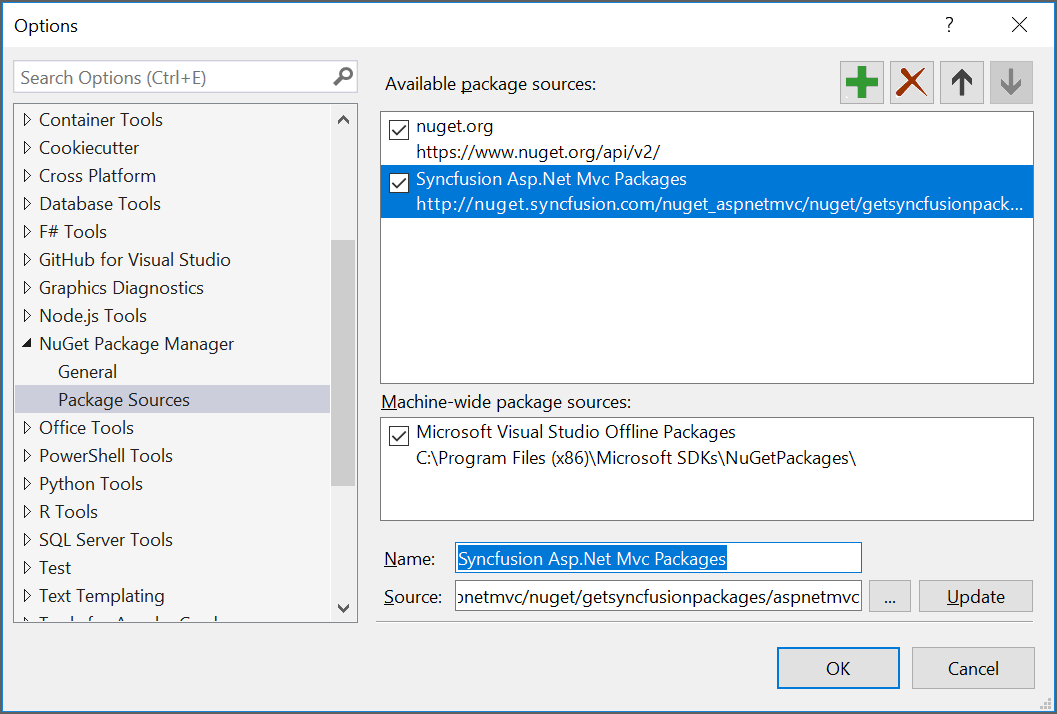
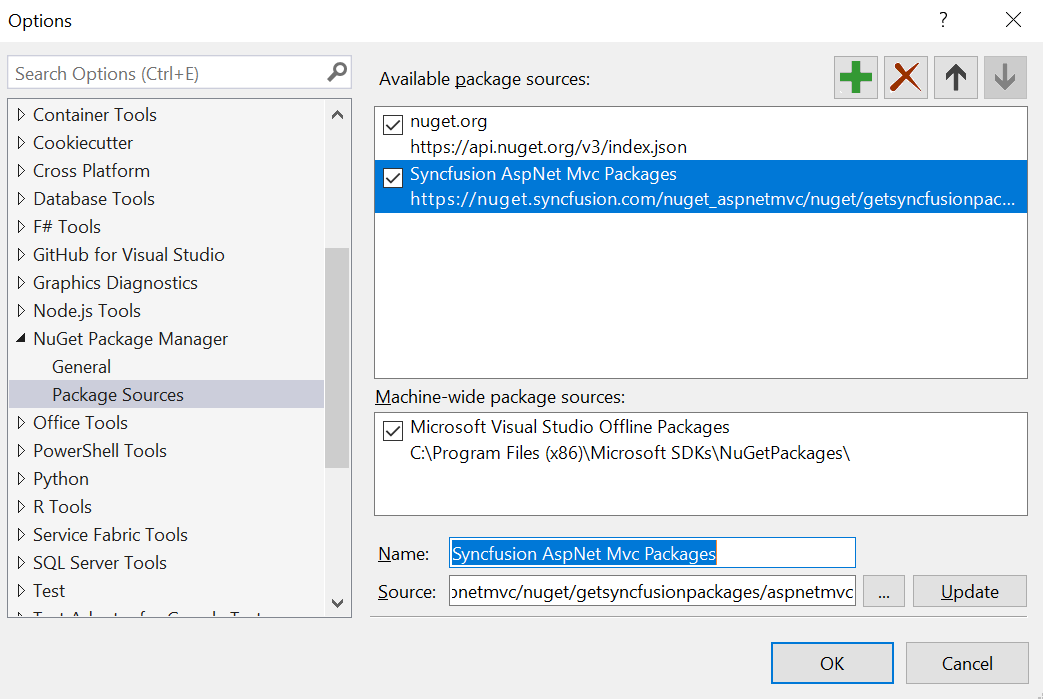
EXT-3461-NuGet-Feed-Changes

Changed region(s): [[0.0, 0.0, 1.0, 1.0]]

diff --git a/aspnetmvc/NuGet-Packages.md b/aspnetmvc/NuGet-Packages.md
@@ -21,7 +21,7 @@ You should get the private Syncfusion ASP.NET MVC NuGet feed URL to install or u
 
 2. Navigate to **WEB(Essential JS1)**, click the Copy URL label under ASP.NET MVC platform to copy the Syncfusion ASP.NET MVC platform NuGet feed to clipboard or directly use the following URL: 
 
-    [http://nuget.syncfusion.com/nuget_aspnetmvc/nuget/getsyncfusionpackages/aspnetmvc](http://nuget.syncfusion.com/nuget_aspnetmvc/nuget/getsyncfusionpackages/aspnetmvc) 
+    [https://nuget.syncfusion.com/nuget_aspnetmvc/nuget/getsyncfusionpackages/aspnetmvc](https://nuget.syncfusion.com/nuget_aspnetmvc/nuget/getsyncfusionpackages/aspnetmvc) 
 
     ![](NuGet_Packages_Images/img1.png)
 
@@ -42,7 +42,7 @@ You should get the private Syncfusion ASP.NET MVC NuGet feed URL to install or u
     **Name:** Name of the package listed in the available package sources.
     
     **Source:** Syncfusion ASP.NET MVC NuGet Feed URL      
-    [http://nuget.syncfusion.com/nuget_aspnetmvc/nuget/getsyncfusionpackages/aspnetmvc](http://nuget.syncfusion.com/nuget_aspnetmvc/nuget/getsyncfusionpackages/aspnetmvc).
+    [https://nuget.syncfusion.com/nuget_aspnetmvc/nuget/getsyncfusionpackages/aspnetmvc](https://nuget.syncfusion.com/nuget_aspnetmvc/nuget/getsyncfusionpackages/aspnetmvc).
 
 5.	Click the **Update** button to add the name and source details to package sources. 
 
@@ -64,7 +64,7 @@ You should get the private Syncfusion ASP.NET MVC NuGet feed URL to install or u
    
     **Name:** Enter the name (For e.g., Syncfusion ASP.NET MVC Packages).
    
-    **Location:** Enter the following URL – [http://nuget.syncfusion.com/nuget_aspnetmvc/nuget/getsyncfusionpackages/aspnetmvc](http://nuget.syncfusion.com/nuget_aspnetmvc/nuget/getsyncfusionpackages/aspnetmvc).
+    **Location:** Enter the following URL – [https://nuget.syncfusion.com/nuget_aspnetmvc/nuget/getsyncfusionpackages/aspnetmvc](https://nuget.syncfusion.com/nuget_aspnetmvc/nuget/getsyncfusionpackages/aspnetmvc).
 
     ![](NuGet_Packages_Images/img5.png)
  
@@ -114,7 +114,7 @@ To reference the Syncfusion ASP.NET MVC component using the Package Manager Cons
     Install-Package Syncfusion.AspNet.MVC5
 
     #install specified package in default project with specified Package Source
-    Install-Package Syncfusion.AspNet.MVC5 -Source “http://nuget.syncfusion.com/nuget_aspnetmvc/nuget/getsyncfusionpackages/aspnetmvc”
+    Install-Package Syncfusion.AspNet.MVC5 -Source “https://nuget.syncfusion.com/nuget_aspnetmvc/nuget/getsyncfusionpackages/aspnetmvc”
 
     #install specified package in specified project 
     Install-Package Syncfusion.AspNet.MVC5 -ProjectName SyncfusionDemoApplication
@@ -162,10 +162,10 @@ The NuGet Command Line Interface (CLI), nuget.exe, provides the full extent of N
 
     ~~~
     #For Windows platform
-    nuget.exe Sources Add –Name “Syncfusion Source” –Source “http://nuget.syncfusion.com/nuget_aspnetmvc/nuget/getsyncfusionpackages/aspnetmvc”
+    nuget.exe Sources Add –Name “Syncfusion Source” –Source “https://nuget.syncfusion.com/nuget_aspnetmvc/nuget/getsyncfusionpackages/aspnetmvc”
 
     #For MAC/Linux platform
-    mono nuget.exe Sources Add –Name “Syncfusion Source” –Source “http://nuget.syncfusion.com/nuget_aspnetmvc/nuget/getsyncfusionpackages/aspnetmvc”
+    mono nuget.exe Sources Add –Name “Syncfusion Source” –Source “https://nuget.syncfusion.com/nuget_aspnetmvc/nuget/getsyncfusionpackages/aspnetmvc”
     ~~~
 
 ### NuGet installation
@@ -192,7 +192,7 @@ nuget.exe install “Syncfusion.AspNet.MVC5”
 nuget.exe install “C:\Users\SyncfusionApplication\package.config”
 
 #install specific Syncfusion NuGet package with Syncfusion ASP.NET MVC NuGet feed for Windows 
-nuget.exe install “Syncfusion.AspNet.MVC5” –Source “http://nuget.syncfusion.com/nuget_aspnetmvc/nuget/getsyncfusionpackages/aspnetmvc”
+nuget.exe install “Syncfusion.AspNet.MVC5” –Source “https://nuget.syncfusion.com/nuget_aspnetmvc/nuget/getsyncfusionpackages/aspnetmvc”
 
 #install specific package for Mac and Linux 
 mono nuget.exe install “Syncfusion.AspNet.MVC5”
@@ -201,7 +201,7 @@ mono nuget.exe install “Syncfusion.AspNet.MVC5”
 mono nuget.exe install “C:\Users\SyncfusionApplication\package.config”
 
 #install specific Syncfusion NuGet package with Syncfusion ASP.NET MVC NuGet feed for Mac and Linux 
-mono nuget.exe install “Syncfusion.AspNet.MVC5” –Source “http://nuget.syncfusion.com/nuget_aspnetmvc/nuget/getsyncfusionpackages/aspnetmvc”
+mono nuget.exe install “Syncfusion.AspNet.MVC5” –Source “https://nuget.syncfusion.com/nuget_aspnetmvc/nuget/getsyncfusionpackages/aspnetmvc”
 ~~~
 
 ## Upgrading NuGet packages
@@ -256,7 +256,7 @@ To update the installed Syncfusion ASP.NET MVC NuGet packages using the Package 
     Update-Package Syncfusion.AspNet.MVC5
 
     #Update specified package in default project with specified Package Source
-    Update-Package Syncfusion.AspNet.MVC5 –Source “http://nuget.syncfusion.com/nuget_aspnetmvc/nuget/getsyncfusionpackages/aspnetmvc” 
+    Update-Package Syncfusion.AspNet.MVC5 –Source “https://nuget.syncfusion.com/nuget_aspnetmvc/nuget/getsyncfusionpackages/aspnetmvc” 
 
     #Update specified package in specified project 
     Update-Package Syncfusion.AspNet.MVC5 -ProjectName SyncfusionDemoApplication
@@ -293,7 +293,7 @@ Using the NuGet CLI, all the NuGet packages in the project can be updated to the
     nuget update “C:\Users\SyncfusionApplication\package.config”
 
     #Update all NuGet packages from specified Packages Source
-    nuget update -Source “http://nuget.syncfusion.com/nuget_aspnetmvc/nuget/getsyncfusionpackages/aspnetmvc”
+    nuget update -Source “https://nuget.syncfusion.com/nuget_aspnetmvc/nuget/getsyncfusionpackages/aspnetmvc”
     ~~~
 
     N> Update command is not working as expected in Mono (Mac and Linux) and projects using PackageReference format.
